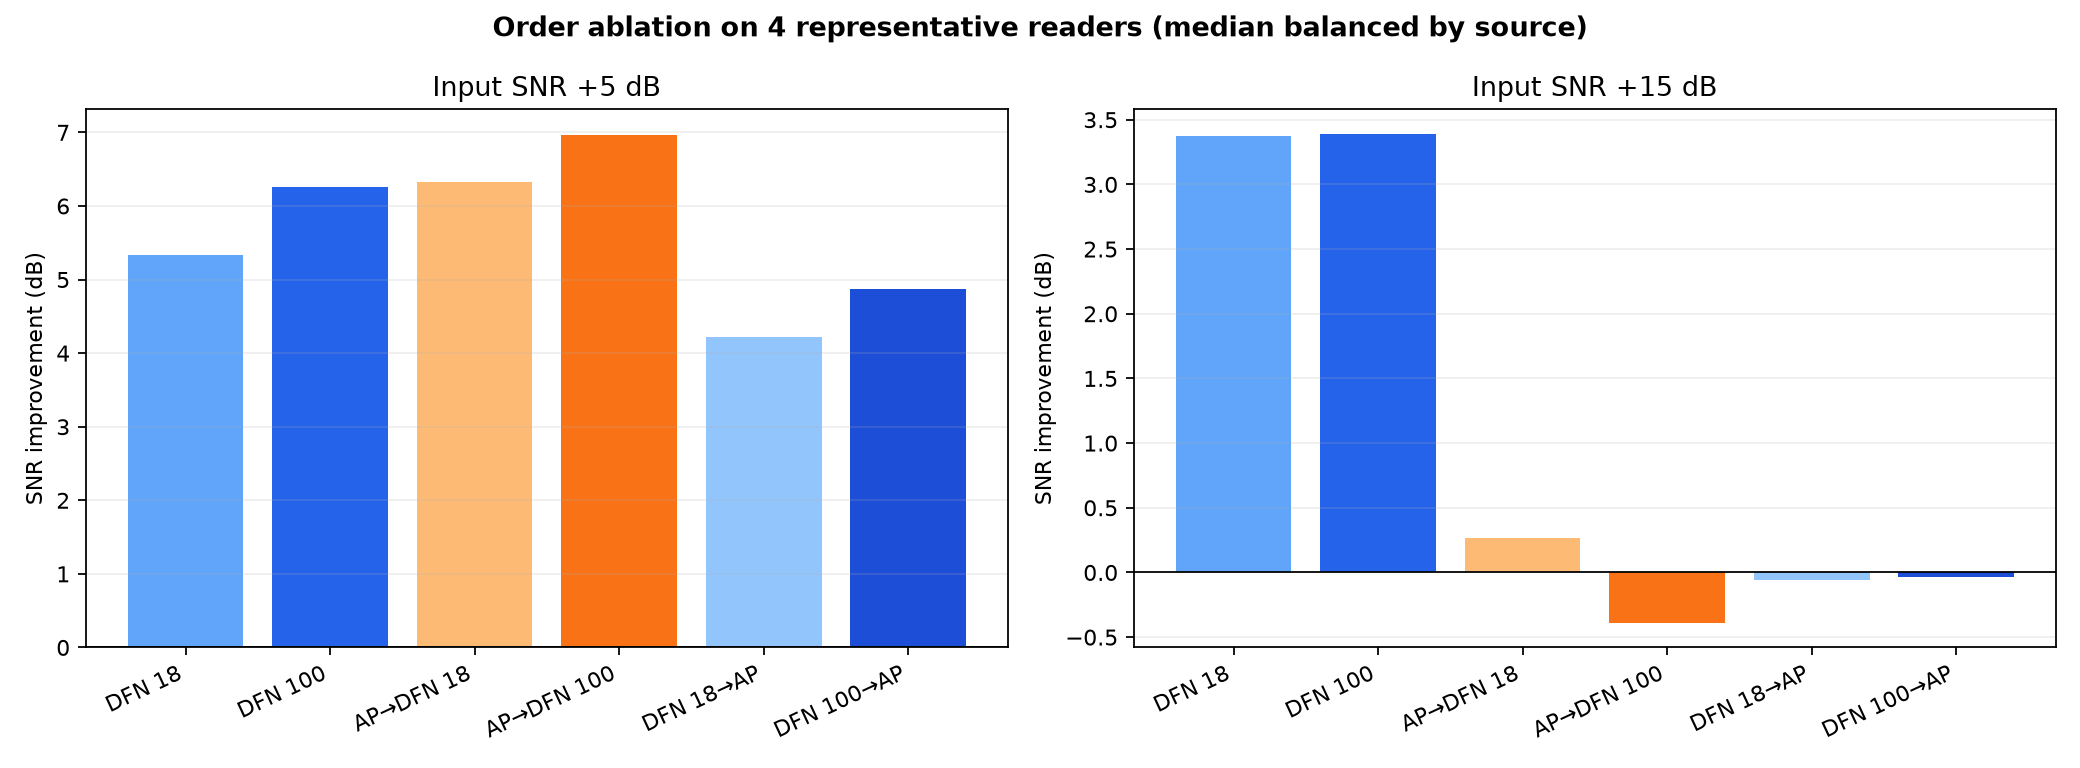
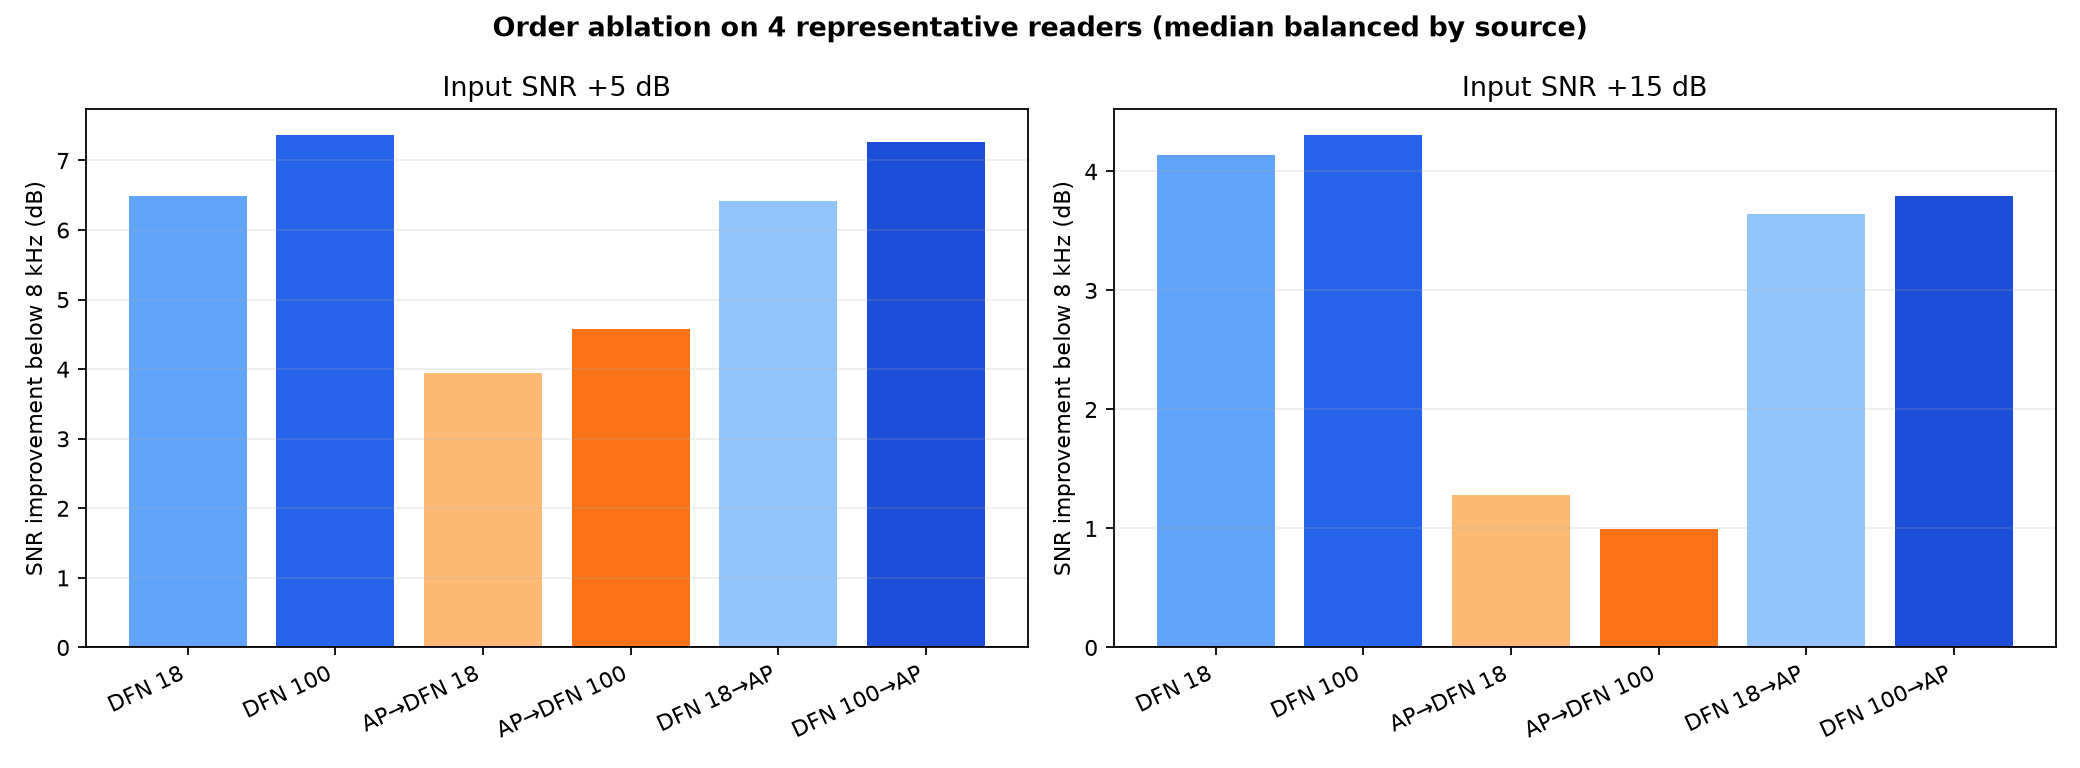
docs(bench): refine controlled-noise analysis

diff --git a/docs/benchmarking/controlled-noise-v1.md b/docs/benchmarking/controlled-noise-v1.md
@@ -8,7 +8,7 @@ This is a descriptive, reproducible local benchmark of DeepFilterNet 0.5.6 and t
 - Original sources are mono, mostly 44.1 kHz MP3 at 128 kbps. They are not clean studio masters or true wideband references.
 - One public-domain classroom ambience recording is mixed at measured active-speech SNR +5, +10 and +15 dB. The speech stem is scaled by −6 dB before mixing; no normalization or limiting is applied.
 - DeepFilterNet uses its default attenuation limit (100 dB). AP-BWE uses the pinned local 16→48 kHz model; its output is passed to DeepFilterNet.
-- Source-balanced results are the median across readers within each work, then the median of the work-level values.
+- Source-balanced results are the median across readers within each work, then the median of the work-level values. The main 11-reader batch contains exactly four recording works.
 - Voice/noise projection metrics are controlled-signal proxies. AP-BWE-generated frequencies above 8 kHz cannot be scored as accurate against these band-limited MP3 references.
 
 ## Main results
@@ -22,26 +22,67 @@ This is a descriptive, reproducible local benchmark of DeepFilterNet 0.5.6 and t
 | AP-BWE → DeepFilterNet | +10 dB | +2.42 dB | 12.42 dB | −1.03 dB | 0.704 |
 | AP-BWE → DeepFilterNet | +15 dB | −0.42 dB | 14.57 dB | −1.09 dB | 0.706 |
 
-DeepFilterNet alone has better fidelity to the known stem at all three SNRs and is about 2.5× faster in this CPU run. AP-BWE → DFN attenuates the projected speech stem about 1 dB. At +15 dB input SNR, its median output SNR is slightly worse than the input. These measurements support keeping AP-BWE optional while listening and checking its high-frequency contribution on true wideband references.
+The table above is the initial full-band projection score. Its residual term also counts generated >8 kHz AP-BWE energy as error against the band-limited MP3 reference, so it is not the primary denoising comparison. The band-limited re-score below isolates the known 0–7.9 kHz region.
 
-![Source-balanced SNR improvement and projected voice gain](figures/controlled-noise-v1.png)
+| Pipeline | Input SNR | SNR gain below 8 kHz | Active SI-SDR below 8 kHz | Projected voice gain below 8 kHz |
+|---|---:|---:|---:|---:|
+| DeepFilterNet | +5 dB | +5.04 dB | 9.95 dB | −0.57 dB |
+| DeepFilterNet | +10 dB | +3.82 dB | 13.75 dB | −0.38 dB |
+| DeepFilterNet | +15 dB | +2.38 dB | 17.30 dB | −0.29 dB |
+| AP-BWE → DeepFilterNet | +5 dB | +4.49 dB | 9.49 dB | −1.01 dB |
+| AP-BWE → DeepFilterNet | +10 dB | +2.92 dB | 12.94 dB | −0.99 dB |
+| AP-BWE → DeepFilterNet | +15 dB | +0.80 dB | 15.75 dB | −1.05 dB |
+
+DFN alone remains more faithful to the known stem and produces more in-band SNR gain at each SNR in this set. The gap in active SI-SDR grows from about 0.5 dB at +5 dB input to 1.6 dB at +15 dB. AP-BWE → DFN is around 2.5× slower. Keep AP-BWE optional pending the user's listening and true-wideband validation.
+
+![Source-balanced in-band SNR improvement and projected voice gain](figures/controlled-noise-v1.png)
 
 ## AP-BWE order and sample-rate audit
 
-A short order ablation used one reader from each of four works at +5 and +15 dB. At +5 dB, AP-BWE → DFN (100 dB limit) gives +6.97 dB median SNR gain, versus +6.25 dB for DFN alone; it also reduces the projected speech stem more. At +15 dB, AP-BWE → DFN gives −0.39 dB, and DFN → AP-BWE gives approximately −0.03 dB, versus +3.39 dB for DFN alone.
+The first order ablation accidentally represented only three works because Christiane and Rémi both come from *Légendes rustiques*. A fourth reader, Naf from *Lettres de mon moulin*, was added; the figures below use one reader from each of the four works. At +5 dB, DFN alone gains +7.37 dB SNR below 8 kHz versus +4.58 dB for AP-BWE → DFN (100 dB limit). At +15 dB, DFN alone gains +4.31 dB, versus +1.00 dB for AP-BWE → DFN. The corrected four-work results no longer support the earlier three-work summary.
 
 The 48→16→48 kHz conversion is the expected AP-BWE operating path, not itself an integration error. To check whether mixing before downsampling was the problem, two paths were compared: (A) downsample the 48 kHz mixture and (B) downsample voice and noise separately, then remix at the same measured 16 kHz SNR. Their SNR and 0–8 kHz SI-SDR results were nearly identical (under 0.2 dB difference across the four sources and +10/+15 dB cases). This refutes a material ordering effect from that resampling step in this limited sample.
 
-On clean inputs, AP-BWE-only active SI-SDR in 0–8 kHz was 28.8–32.8 dB for the four representatives. This indicates that the existing narrowband content was mostly retained by the wrapper. The full-band penalty in the main benchmark therefore mixes two effects: changes to known 0–8 kHz content and generated >8 kHz content that the MP3 reference cannot verify. Report those bands separately; do not call generated high frequencies correct or incorrect without a wideband reference.
+A supplementary active SI-SDR check on AP-BWE clean round trips returned 29.3–33.1 dB for the four representatives. A resampling-only branch returned 25.1–49.6 dB, which varies widely by source; it is not a reliable universal “ceiling.” Both branches start from the same 16 kHz source array, use the same torchaudio 16→48 resampler, the same final FFmpeg 48→16 resampler, same active mask, and report zero lag. The variation still makes these values illustrative rather than an absolute AP-BWE quality score; SI-SDR is scale-invariant and does not capture the projected voice-gain change.
 
-![Order ablation at +5 and +15 dB](figures/apbwe-order-ablation-v1.png)
+The full-band projection penalty therefore combines changes to known 0–8 kHz content and generated >8 kHz content that the MP3 reference cannot verify. Report those bands separately; do not call generated high frequencies correct or incorrect without a wideband reference.
+
+![Corrected four-source order ablation at +5 and +15 dB, scored below 8 kHz](figures/apbwe-order-ablation-v1.png)
 
 ![AP-BWE conversion A/B audit, measured below 8 kHz](figures/apbwe-suitability-v1.png)
+
+## Descriptive high-band energy
+
+The following STFT dB/bin measurements use a source-only speech mask with a ±120 ms guard. Speech-energy medians use all four readers (one per work) at +10/+15 dB. Gap-energy and speech/gap contrast medians use three works: the Emy excerpt contains no detected gap frames after the mask guard. These are relative spectral descriptors; there is no true high-band reference in the MP3 sources.
+
+| Input SNR | Band | Candidate | Speech energy | Gap energy | Speech − gap contrast |
+|---:|---:|---|---:|---:|---:|
+| +10 dB | 8–12 kHz | Raw mix | −76.17 | −98.91 | 19.81 |
+| +10 dB | 8–12 kHz | DFN | −76.62 | −107.83 | 31.27 |
+| +10 dB | 8–12 kHz | AP-BWE | −78.02 | −96.15 | 18.75 |
+| +10 dB | 8–12 kHz | AP-BWE → DFN | −78.55 | −98.98 | 23.42 |
+| +10 dB | 12–20 kHz | Raw mix | −90.98 | −107.35 | 16.28 |
+| +10 dB | 12–20 kHz | DFN | −91.58 | −119.71 | 27.25 |
+| +10 dB | 12–20 kHz | AP-BWE | −84.24 | −97.90 | 13.56 |
+| +10 dB | 12–20 kHz | AP-BWE → DFN | −84.99 | −100.08 | 17.35 |
+| +15 dB | 8–12 kHz | Raw mix | −76.19 | −103.77 | 24.69 |
+| +15 dB | 8–12 kHz | DFN | −76.61 | −113.30 | 36.86 |
+| +15 dB | 8–12 kHz | AP-BWE | −78.14 | −101.20 | 23.14 |
+| +15 dB | 8–12 kHz | AP-BWE → DFN | −78.61 | −103.41 | 28.28 |
+| +15 dB | 12–20 kHz | Raw mix | −91.03 | −111.15 | 19.65 |
+| +15 dB | 12–20 kHz | DFN | −91.50 | −120.65 | 27.48 |
+| +15 dB | 12–20 kHz | AP-BWE | −84.57 | −101.82 | 16.34 |
+| +15 dB | 12–20 kHz | AP-BWE → DFN | −85.18 | −103.23 | 19.30 |
+
+AP-BWE raises 12–20 kHz energy during both speech and gaps. At +10 dB, the active band rises about 6.7 dB and gap energy about 9.4 dB relative to the raw mix, so the speech/gap contrast drops. DFN alone produces the lowest gap floor and strongest speech/gap contrast. AP-BWE → DFN restores some contrast over AP-BWE alone, but remains below DFN in these descriptive measurements.
+
+![High-band speech/gap contrast by candidate](figures/highband-descriptive-v1.png)
 
 ## Interpretation and next gates
 
 - This corpus measures robustness across French audiobook voices, not across microphones, rooms, calls, streaming, music, overlapping speakers or languages.
 - There is one classroom-noise recording and no naturally noisy recording set. Repeat with other noise types before choosing a universal denoiser.
+- The initial order ablation represented three works because two readers came from the same title. It was superseded after adding Naf; the corrected results include four independent works.
 - Do not optimize toward Adobe’s spectrum. Adobe remains a perceptual external reference; known clean stems are the objective benchmark reference.
 - Keep AP-BWE as a separately selectable bandwidth-restoration stage for now. Do not describe it as denoising, echo cancellation or dereverberation.
 - Before making AP-BWE a default stage, require acceptable user listening, no substantial loss below 8 kHz, speech-correlated high-band output on clean wideband references, and no strong source-specific regression.
